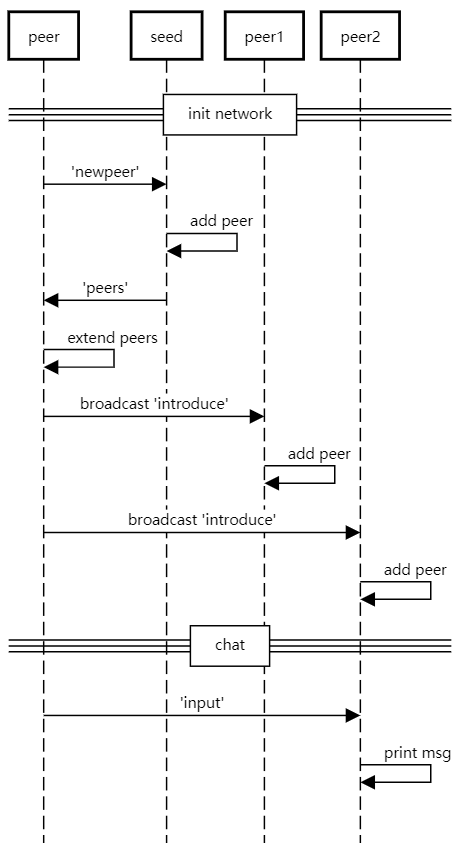
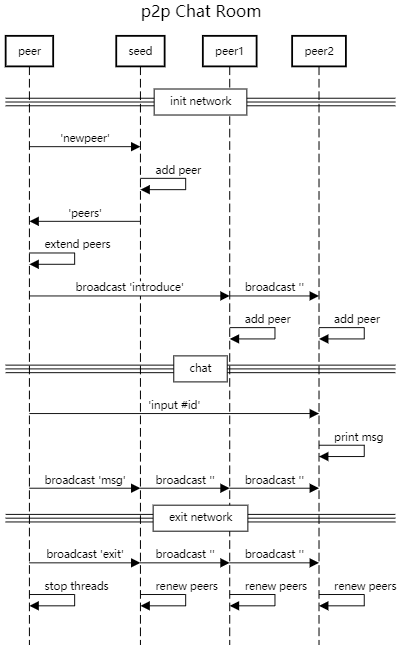
add exit

Changed region(s): [[0.0, 0.0, 0.9875, 1.0]]

diff --git a/main.py b/main.py
@@ -17,33 +17,41 @@ class Node:
             data, addr = pu.recembase(self.udp_socket)
             action = json.loads(data)
             # print(action["type"])
-            self.dispatch(action, addr)
-    def dispatch(self, action,addr):
-        if action['type'] == 'newpeer':
-            print("A new peer is coming")
-            self.peers[action['data']]= addr
-            # print(addr)
-            pu.sendJS(self.udp_socket, addr,{
-            "type":'peers',
-            "data":self.peers
-            })         
+        #     self.dispatch(action, addr)
+        # def dispatch(self, action,addr):
+            if action['type'] == 'newpeer':
+                print("A new peer is coming")
+                self.peers[action['data']]= addr
+                # print(addr)
+                pu.sendJS(self.udp_socket, addr,{
+                "type":'peers',
+                "data":self.peers
+                })         
 
-        if action['type'] == 'peers':
-            print("Received a bunch of peers")
-            self.peers.update(action['data'])
-            # introduce youself. 
-            pu.broadcastJS(self.udp_socket, {
-                "type":"introduce",
-                "data": self.myid
-            },self.peers) 
+            if action['type'] == 'peers':
+                print("Received a bunch of peers")
+                self.peers.update(action['data'])
+                # introduce youself. 
+                pu.broadcastJS(self.udp_socket, {
+                    "type":"introduce",
+                    "data": self.myid
+                },self.peers) 
 
-        if action['type'] == 'introduce':
-            print("Get a new friend.")
-            self.peers[action['data']]= addr   
+            if action['type'] == 'introduce':
+                print("Get a new friend.")
+                self.peers[action['data']]= addr   
 
-        if action['type'] == 'input':
-            print(action['data'])  
-        
+            if action['type'] == 'input':
+                print(action['data'])  
+
+            if action['type'] == 'exit':
+                if(self.myid == action['data']):
+                #cannot be closed too fast.  
+                    time.sleep(0.5) 
+                    break;
+                    # self.udp_socket.close()
+                value, key = self.peers.pop(action['data'])
+                print( action['data'] + " is left.")          
             
     def startpeer(self):
         pu.sendJS(self.udp_socket,self.seed,{
@@ -55,7 +63,11 @@ class Node:
         while 1: 
             msg_input = input("$:")
             if msg_input == "exit":
-                break    
+                pu.broadcastJS(self.udp_socket, {
+                    "type":"exit",
+                    "data":self.myid
+                },self.peers)
+                break     
             if msg_input == "friends":
                 print(self.peers) 
                 continue      

diff --git a/README.md b/README.md
@@ -14,7 +14,7 @@ It is a fully decentralized p2pChatRoom. No server is needed. It is implemented 
 ## Sequence Diagram
 ![](p2pChatRoom.png)
 
-项目分为两阶段：
+项目分为三个阶段：
 
 1，启动网络阶段： 
 
@@ -27,6 +27,12 @@ It is a fully decentralized p2pChatRoom. No server is needed. It is implemented 
 输入信息时，不指定节点id, 则广播信息。
 
 指定节点id, 则定向发送信息。 
+
+3， 离开阶段
+
+输入exit, 退出。
+
+其他节点在本节点friends列表中删除对应节点。 
 
 ### Explantion
 scripy.py 启动4个xterm 做为模拟节点
@@ -63,3 +69,5 @@ python main.py 8893 id3
 "hello"
 
 "hello id2"
+
+“exit"
